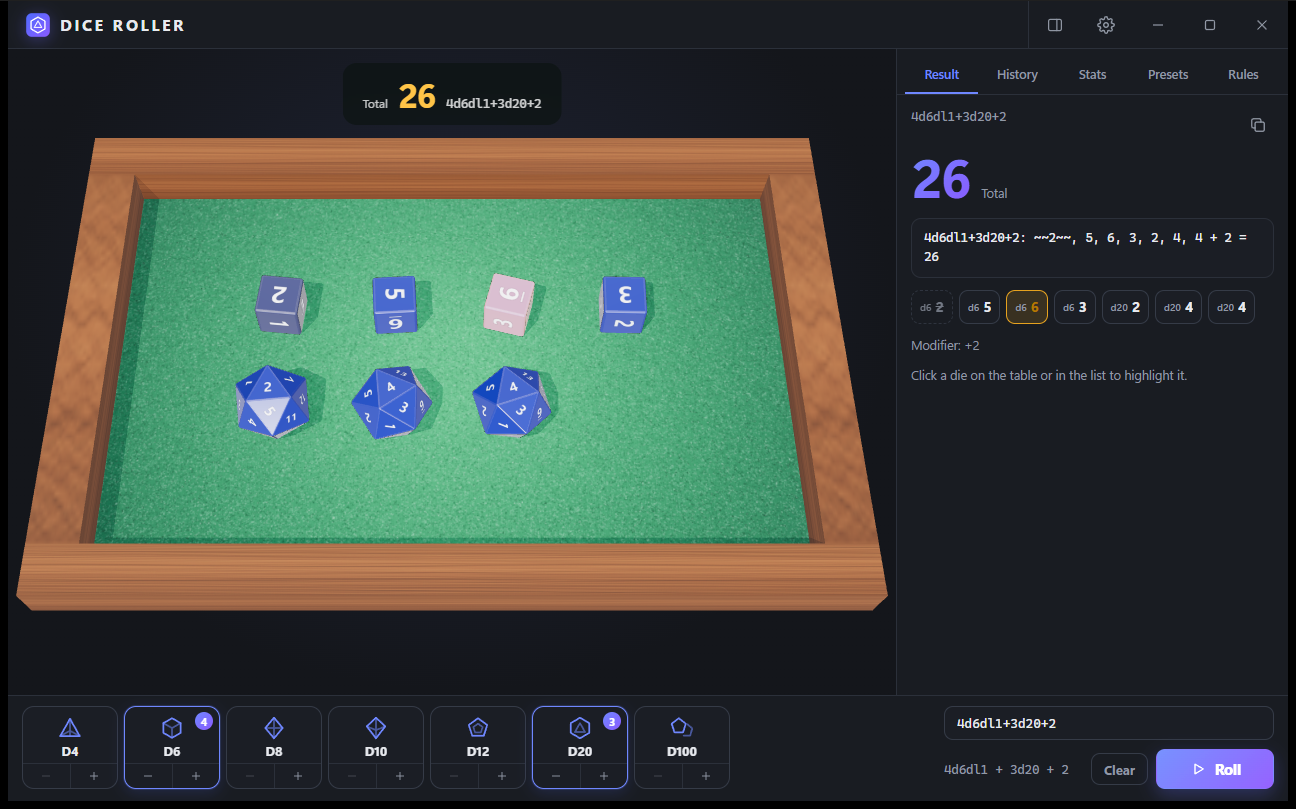
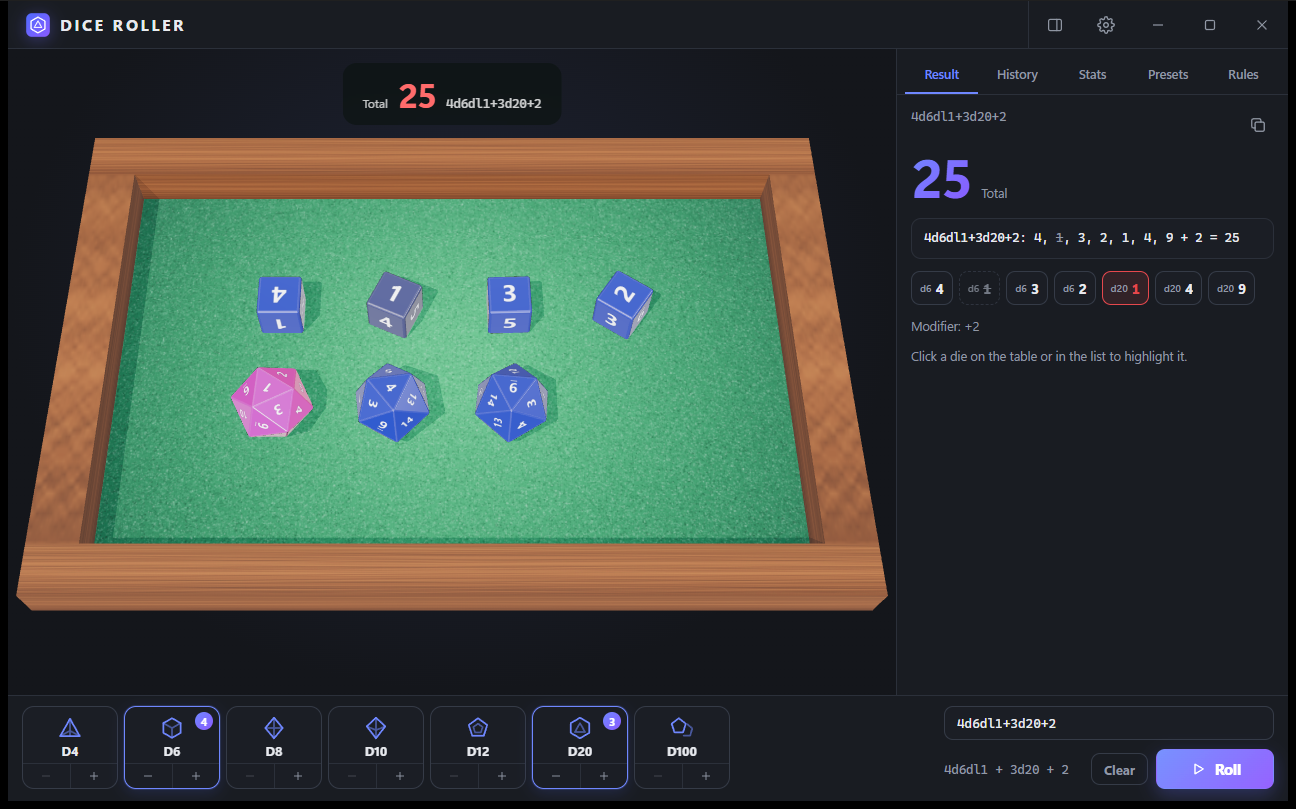
Render dropped dice struck through in the result formula, not as markup

diff --git a/src/ui/panel.ts b/src/ui/panel.ts
@@ -20,10 +20,10 @@ import {
 import { h, svg } from '../dom';
 import { getLang, t } from '../i18n';
 import { icons } from '../icons';
-import { dieText, sortedDice } from '../rules/format';
+import { dieText, formatParts, sortedDice } from '../rules/format';
 import { toNotation, toSummary } from '../rules/notation';
 import { BUCKETS, expectedAverage, type Stats } from '../rules/stats';
-import { defaultRules, DIE_TYPES, type DieRec, type DieType, type KeepMode, type RollSpec } from '../rules/types';
+import { defaultRules, DIE_TYPES, type DieRec, type RollResult, type DieType, type KeepMode, type RollSpec } from '../rules/types';
 import { saveConfig, state, type TabId, notify, type HistoryEntry } from '../store';
 import { confirmDialog, promptDialog } from './dialog';
 import { toast } from './toast';
@@ -102,6 +102,19 @@ function dieChip(d: DieRec, mixed: boolean): HTMLElement {
   );
 }
 
+/** Formula line with dropped dice struck through and greyed, rerolled ones in brackets. */
+function formulaNodes(spec: RollSpec, result: RollResult, label?: string): (Node | string)[] {
+  const p = formatParts(spec, result, label);
+  const out: (Node | string)[] = [`${p.head}: `];
+  p.dice.forEach((d, i) => {
+    if (i) out.push(', ');
+    if (d.status === 'dropped') out.push(h('s', { class: 'muted' }, String(d.value)));
+    else out.push(dieText(d));
+  });
+  out.push(p.tail);
+  return out;
+}
+
 function resultView(): HTMLElement[] {
   const cur = state.current;
   if (!cur) {
@@ -135,7 +148,7 @@ function resultView(): HTMLElement[] {
   if (spec.rules.display === 'subtotals' && !result.successes && result.subtotals.length > 1) {
     out.push(h('div', { class: 'res-sub' }, ...result.subtotals.map((s) => h('span', { class: 'badge accent' }, `${s.type.toUpperCase()}: ${s.sum}`))));
   }
-  out.push(h('div', { class: 'res-formula' }, resultText()));
+  out.push(h('div', { class: 'res-formula' }, ...formulaNodes(spec, result, cur.label)));
   out.push(h('div', { class: 'chips-dice' }, ...dice.map((d) => dieChip(d, mixed))));
   if (result.modifier) out.push(h('div', { class: 'hint-line' }, `${t('result.modifier')}: ${result.modifier > 0 ? '+' : ''}${result.modifier}`));
   const sel = result.dice.find((d) => d.id === state.selected);

diff --git a/src/rules/format.ts b/src/rules/format.ts
@@ -19,15 +19,27 @@ export function sortedDice(dice: DieRec[]): DieRec[] {
   return [...dice].sort((a, b) => DIE_TYPES.indexOf(a.type) - DIE_TYPES.indexOf(b.type) || a.id - b.id);
 }
 
-/** `4d6dl1: 6, 5, 3, ~~1~~ = 14`. */
-export function formatRoll(spec: RollSpec, result: RollResult, label?: string): string {
+export interface RollParts {
+  head: string;
+  dice: DieRec[];
+  /** Text after the dice: modifier, subtotals and total. */
+  tail: string;
+}
+
+/** The pieces of the formula line, so the UI can style dropped dice instead of printing markup. */
+export function formatParts(spec: RollSpec, result: RollResult, label?: string): RollParts {
   const head = label ? `${label} (${toNotation(spec)})` : toNotation(spec);
-  const body = sortedDice(result.dice).map(dieText).join(', ');
   const mod = result.modifier ? ` ${result.modifier < 0 ? '-' : '+'} ${Math.abs(result.modifier)}` : '';
   const unit = result.successes ? ' successes' : '';
   let tail = `= ${result.total}${unit}`;
   if (spec.rules.display === 'subtotals' && !result.successes && result.subtotals.length > 1) {
-    tail = `[${result.subtotals.map((s) => `${s.type}: ${s.sum}`).join(', ')}] ${tail}`;
+    tail = `[${result.subtotals.map((x) => `${x.type}: ${x.sum}`).join(', ')}] ${tail}`;
   }
-  return `${head}: ${body}${mod} ${tail}`;
+  return { head, dice: sortedDice(result.dice), tail: `${mod} ${tail}` };
+}
+
+/** `4d6dl1: 6, 5, 3, ~~1~~ = 14` (plain text for copying; ~~ marks a dropped die, as in Markdown). */
+export function formatRoll(spec: RollSpec, result: RollResult, label?: string): string {
+  const p = formatParts(spec, result, label);
+  return `${p.head}: ${p.dice.map(dieText).join(', ')}${p.tail}`;
 }

diff --git a/src/rules/rules.test.ts b/src/rules/rules.test.ts
@@ -1,6 +1,6 @@
 import { describe, expect, it } from 'vitest';
 import { finalize, RollSession, rollInstant } from './engine';
-import { formatRoll } from './format';
+import { formatParts, formatRoll } from './format';
 import { parseNotation, toNotation, toSummary } from './notation';
 import { addDice } from './stats';
 import { defaultRules, type DieType, type RollSpec, SIDES } from './types';
@@ -149,5 +149,14 @@ describe('rules', () => {
     const st = {};
     addDice(st, r.dice);
     expect(st).toMatchObject({ d6: { n: 2, sum: 7 }, d100: { n: 1, sum: 55 } });
+  });
+
+  it('exposes dropped dice as data so the UI never prints markup', () => {
+    const s = spec('4d6dl1');
+    const r = rollInstant(s, seq([6, 5, 3, 1]));
+    const p = formatParts(s, r);
+    expect(p.head).toBe('4d6dl1');
+    expect(p.dice.filter((d) => d.status === 'dropped').map((d) => d.value)).toEqual([1]);
+    expect(p.tail).toBe(' = 14');
   });
 });

diff --git a/src/styles.css b/src/styles.css
@@ -444,3 +444,4 @@ label.set-row { cursor: pointer; }
 .set-text .path { font-size: 12px; margin-top: 6px; color: var(--text); letter-spacing: 0.02em; }
 .set-actions { display: flex; gap: 8px; flex-shrink: 0; }
 
+.res-formula s { color: var(--muted); }
